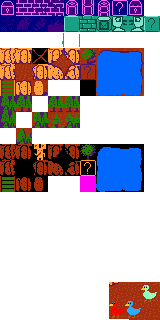
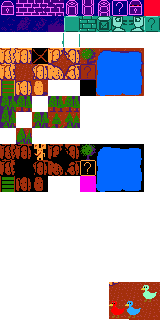
Improve dream effect. dev: fix some magic numbers

Changed region(s): [[0.875, 0.0, 1.0, 0.0625]]

diff --git a/client/chat-frontend.js b/client/chat-frontend.js
@@ -375,7 +375,14 @@ var frontend = function (assets) {
                 var pos = new shared.Pos(
                     Math.floor(Math.random()*12),
                     Math.floor(Math.random()*12));
-                drawTile(ctx, pos, Math.floor(Math.random()*9)); 
+                if (chestRedPositions[pos.y] 
+                    && chestRedPositions[pos.y].indexOf(pos.x) !== -1
+                    && nightmareTimer > Math.random() * chestNightmareDuration * 0.8) {
+                    var tile = 9;
+                } else {
+                    var tile = Math.floor(Math.random()*9);
+                }
+                drawTile(ctx, pos, tile);
             }
         }
     }
@@ -479,9 +486,15 @@ var frontend = function (assets) {
     }
 
     var chestSecretTimer = 0;
+    var chestShowSecretAfter = 60*10; //const
+    var chestShowNightmareAfter = 60*14; //const
+    var chestNightmareDuration = 60*10; //const
     var chestMap = new shared.Pos(9,10);
     var chestPos = new shared.Pos(3, 3);
     var nightmareTimer = 0;
+    var chestRedPositions = []; //y,x
+    chestRedPositions[3] = [2,3,4,7,8,9];
+    //chestRedPositions[8] = [3,4,5,6,7,8];
 
     function updateSecrets() {
         var forceRedraw = false;
@@ -500,14 +513,14 @@ var frontend = function (assets) {
         });
         if (everyoneAsleep === true && anyoneAsleep === true) {
             chestSecretTimer++;
-            if (chestSecretTimer === 60*10) {
+            if (chestSecretTimer === chestShowSecretAfter) {
                 forceRedraw = true;
             }
-            if (chestSecretTimer > 60*20
+            if (chestSecretTimer > chestShowNightmareAfter
                 && shared.distanceBetweenPos(chestPos, myDuck.pos) === 1) {
                 forceRedraw = true; //must draw nightmare every frame
                 nightmareTimer++;
-                if (nightmareTimer === 60*6) {
+                if (nightmareTimer === chestNightmareDuration) {
                     sendMessage("/wilberforce");
                 }
             } else {
@@ -529,7 +542,7 @@ var frontend = function (assets) {
     }
 
     function showChestSecret() {
-        return (chestSecretTimer > 60 * 3);
+        return (chestSecretTimer >= chestShowSecretAfter);
     }
 
     //move if I'm ready to move and holding a direction button
